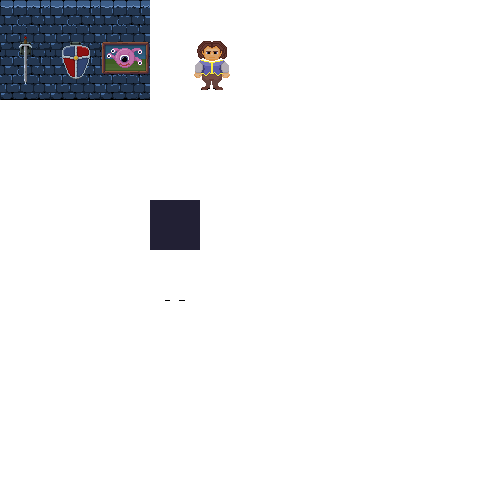
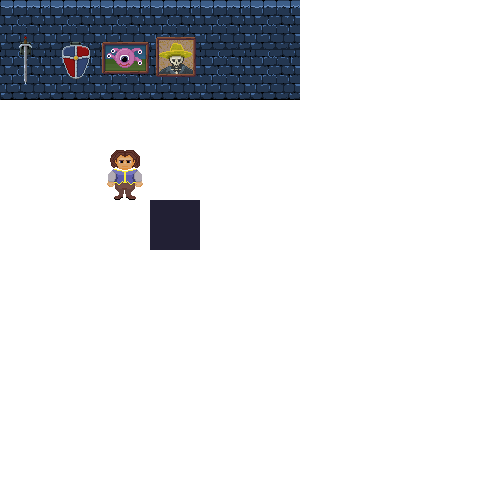
dungeon art: skellie portrait

Changed region(s): [[0.3, 0.0, 0.6, 0.21], [0.21, 0.3, 0.3, 0.42]]

diff --git a/js/World.js b/js/World.js
@@ -9,8 +9,8 @@ var roomGrid =
   11,31,31,36,31, 0, 0, 0, 4,31,31,36,31,31,31,31,15, 0, 0, 0, 0, 0, 0, 0, 0, 0, 0, 0, 0, 0, 0, 0, 0, 0, 0, 0, 0, 0, 0, 0, 0, 0, 0, 0, 0, 0, 0, 0, 0, 0, 0, 0, 0, 0, 0, 0, 0, 0, 0, 0, 0, 0, 0, 9,
   11,32,32,37,32, 0, 0, 0, 0,32,32,37,32,32,32,32,15, 0, 0, 0, 0, 0, 0, 0, 0, 0, 0, 0, 0, 0, 0, 0, 0, 0, 0, 0, 0, 0, 0, 0, 0, 0, 0, 0, 0, 0, 0, 0, 0, 0, 0, 0, 0, 0, 0, 0, 0, 0, 0, 0, 0, 0, 0, 9,
   11,40, 0, 0, 0, 0, 0, 0, 0, 0, 0, 0, 0, 0, 0, 0,53, 0, 0, 0, 0, 0, 0, 0, 0, 0, 0, 0, 0, 0, 0, 9, 0, 0, 0, 0, 0, 0, 0, 0, 0, 0, 0, 0, 0, 0, 0, 0, 0, 0, 0, 0, 0, 0, 0, 0, 0, 0, 0, 0, 0, 0, 0, 9,
-  11,41,43,44, 1,59,55,24,57,43,44,16, 1, 1, 1, 1, 1, 0, 0, 0, 0, 0, 0, 0, 0, 0, 0, 0, 0, 0, 0, 9, 0, 0, 0, 0, 0, 0, 0, 0, 0, 0, 0, 0, 0, 0, 0, 0, 0, 0, 0, 0, 0, 0, 0, 0, 0, 0, 0, 0, 0, 0, 0, 9,
-  11,42,49,50,47,60,56,25,58,49,50,15,23,23,23,23,23, 0, 0, 0, 0, 0, 0, 0, 0, 0, 0, 0, 0, 0, 0, 9, 0, 0, 0, 0, 0, 0, 0, 0, 0, 0, 0, 0, 0, 0, 0, 0, 0, 0, 0, 0, 0, 0, 0, 0, 0, 0, 0, 0, 0, 0, 0, 9,
+  11,41,43,44, 1,59,55,24,57,43,44,16, 1,61, 1, 1, 1, 0, 0, 0, 0, 0, 0, 0, 0, 0, 0, 0, 0, 0, 0, 9, 0, 0, 0, 0, 0, 0, 0, 0, 0, 0, 0, 0, 0, 0, 0, 0, 0, 0, 0, 0, 0, 0, 0, 0, 0, 0, 0, 0, 0, 0, 0, 9,
+  11,42,49,50,47,60,56,25,58,49,50,15,23,62,23,23,23, 0, 0, 0, 0, 0, 0, 0, 0, 0, 0, 0, 0, 0, 0, 9, 0, 0, 0, 0, 0, 0, 0, 0, 0, 0, 0, 0, 0, 0, 0, 0, 0, 0, 0, 0, 0, 0, 0, 0, 0, 0, 0, 0, 0, 0, 0, 9,
   11, 0,45,46,48,51, 0, 0, 0,46,46,15, 0, 0, 0, 0, 0, 0, 0, 0, 0, 0, 0, 0, 0, 0, 0, 0, 0, 0, 0, 9, 0, 0, 0, 0, 0, 0, 0, 0, 0, 0, 0, 0, 0, 0, 0, 0, 0, 0, 0, 0, 0, 0, 0, 0, 0, 0, 0, 0, 0, 0, 0, 9,
   11, 0, 0, 0, 0, 0, 0, 0, 0, 0, 0,15, 0, 0, 0, 0, 0, 0, 0, 0, 0, 0, 0, 0, 0, 0, 0, 0, 0, 0, 0, 9, 0, 0, 0, 0, 0, 0, 0, 0, 0, 0, 0, 0, 0, 0, 0, 0, 0, 0, 0, 0, 0, 0, 0, 0, 0, 0, 0, 0, 0, 0, 0, 9,
   11, 0, 0, 0, 0, 0, 0, 0, 0, 0, 0,15, 0, 0, 0, 0, 0, 0, 0, 0, 0, 0, 0, 0, 0, 0, 0, 0, 0, 0, 0, 9, 0, 0, 0, 0, 0, 0, 0, 0, 0, 0, 0, 0, 0, 0, 0, 0, 0, 0, 0, 0, 0, 0, 0, 0, 0, 0, 0, 0, 0, 0, 0, 9,
@@ -105,6 +105,8 @@ const TILE_DUNGEON_ART_2_TOP = 57;
 const TILE_DUNGEON_ART_2_BOTTOM = 58;
 const TILE_DUNGEON_ART_3_TOP = 59;
 const TILE_DUNGEON_ART_3_BOTTOM = 60;
+const TILE_DUNGEON_ART_4_TOP = 61;
+const TILE_DUNGEON_ART_4_BOTTOM = 62;
 
 
 function roomTileToIndex(tileCol, tileRow) {

diff --git a/js/ImageLoading.js b/js/ImageLoading.js
@@ -96,6 +96,8 @@ function loadImages() {
     {tileType:TILE_DUNGEON_ART_2_BOTTOM, imgX: 50, imgY: 50, theFile:"dungeonArt.png"},
     {tileType:TILE_DUNGEON_ART_3_TOP, imgX: 100, imgY: 0, theFile:"dungeonArt.png"},
     {tileType:TILE_DUNGEON_ART_3_BOTTOM, imgX: 100, imgY: 50, theFile:"dungeonArt.png"},
+    {tileType:TILE_DUNGEON_ART_4_TOP, imgX: 150, imgY: 0, theFile:"dungeonArt.png"},
+    {tileType:TILE_DUNGEON_ART_4_BOTTOM, imgX: 150, imgY: 50, theFile:"dungeonArt.png"},
 
     ];
 
